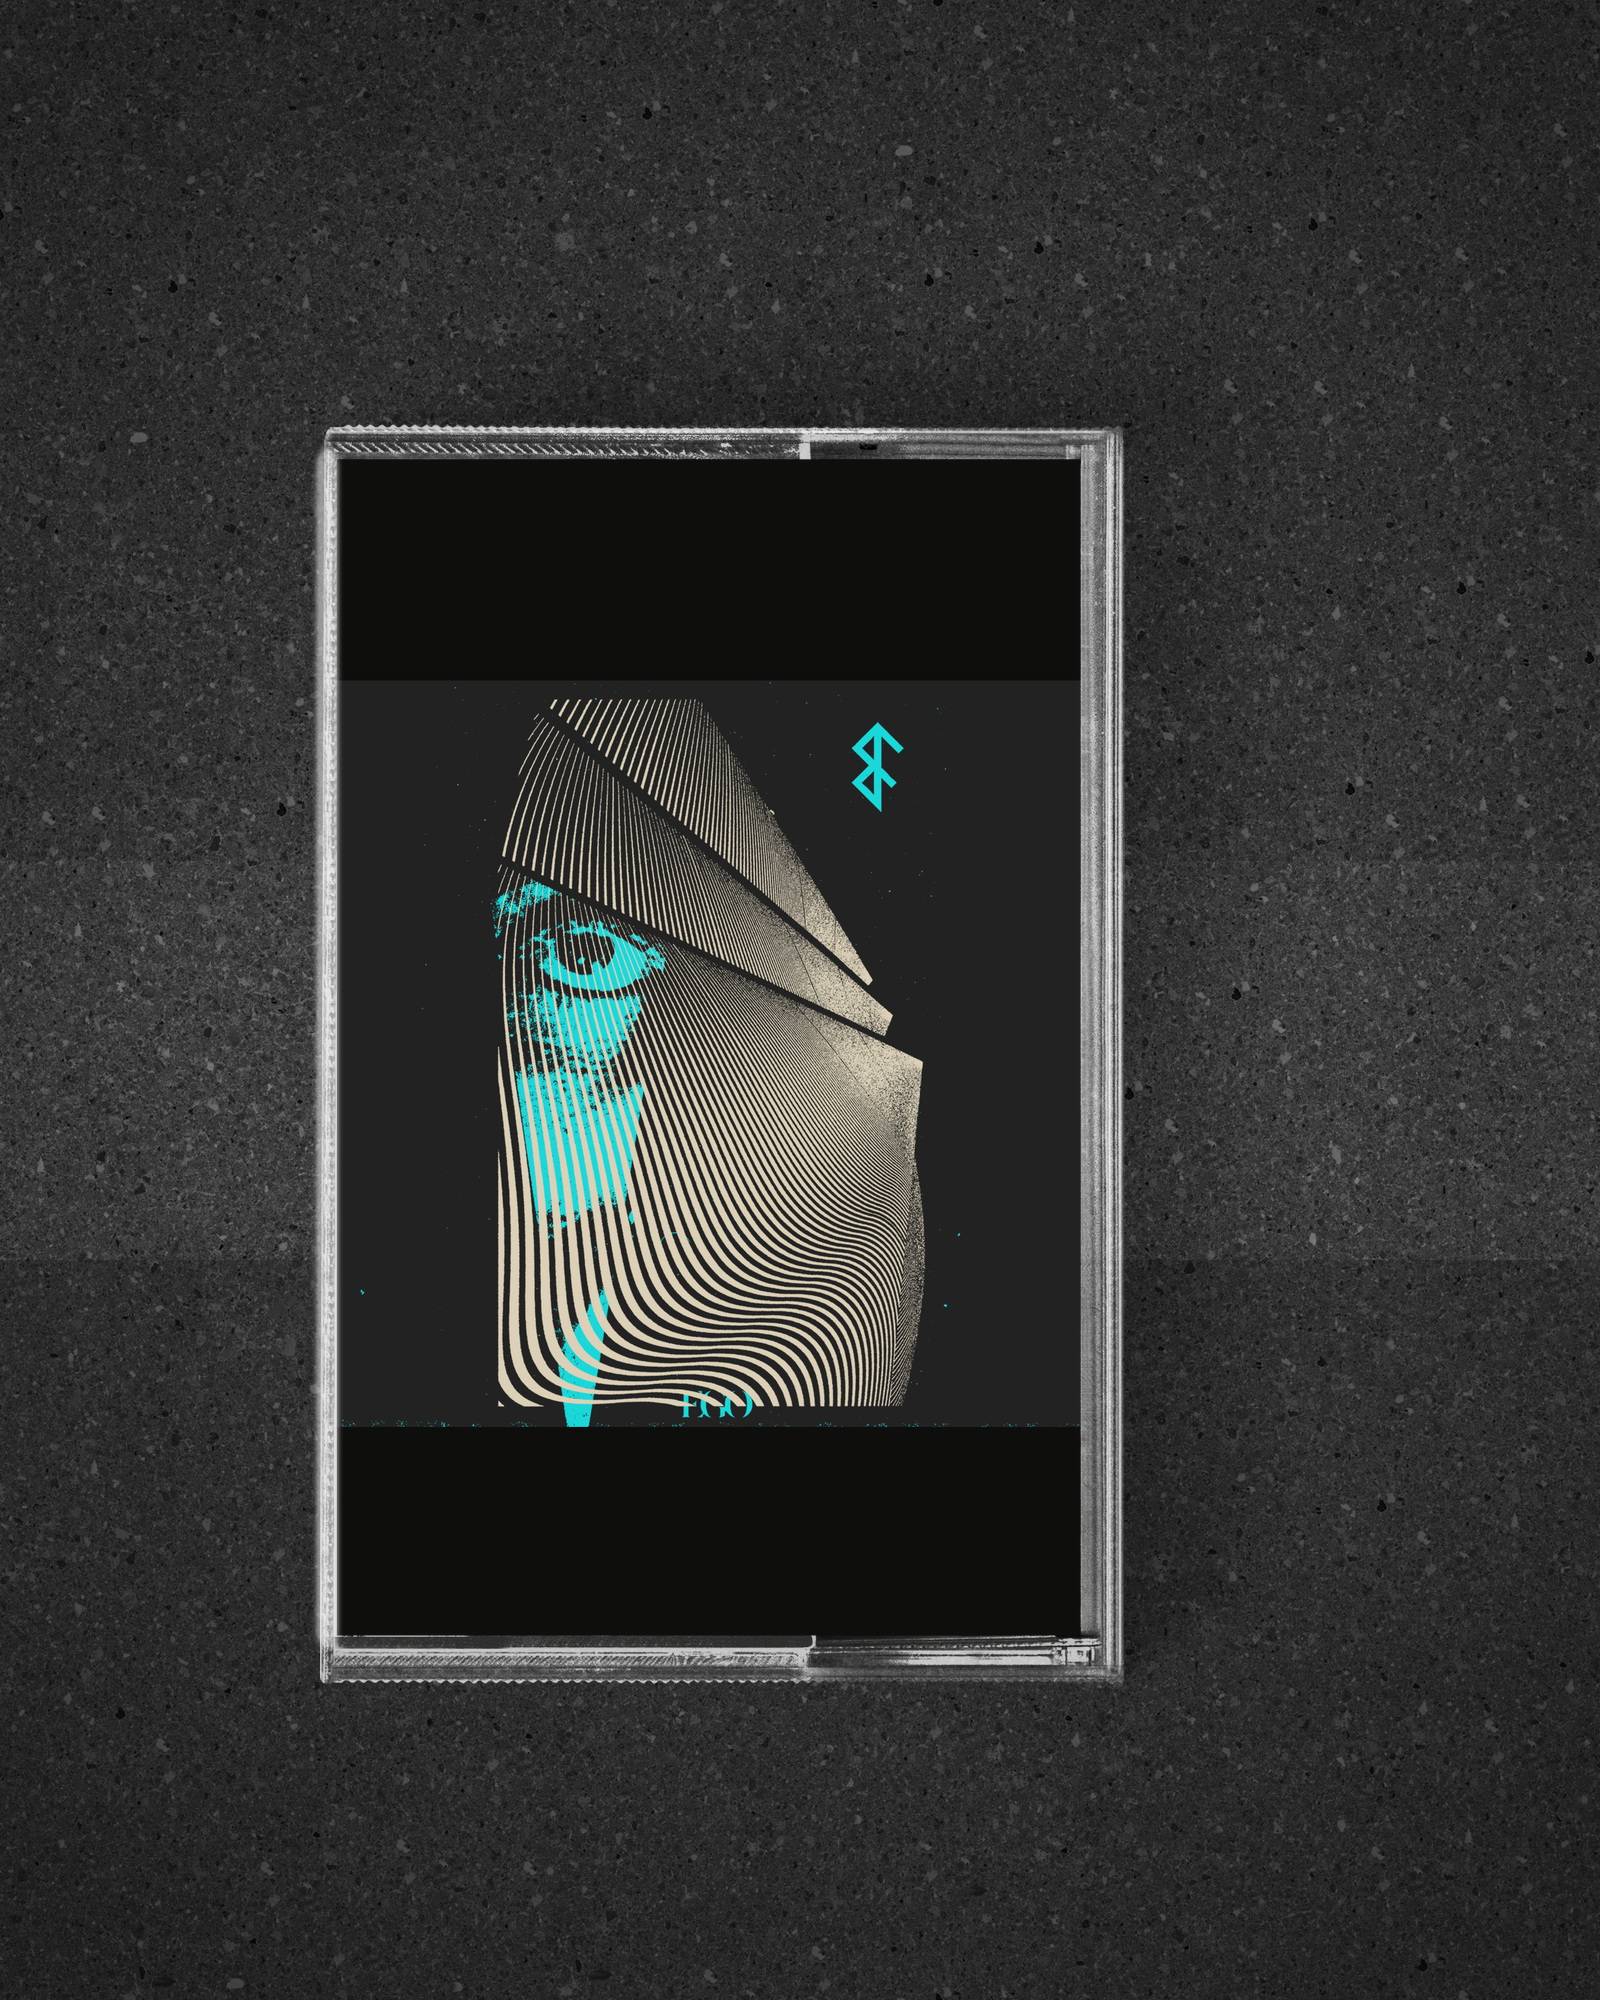
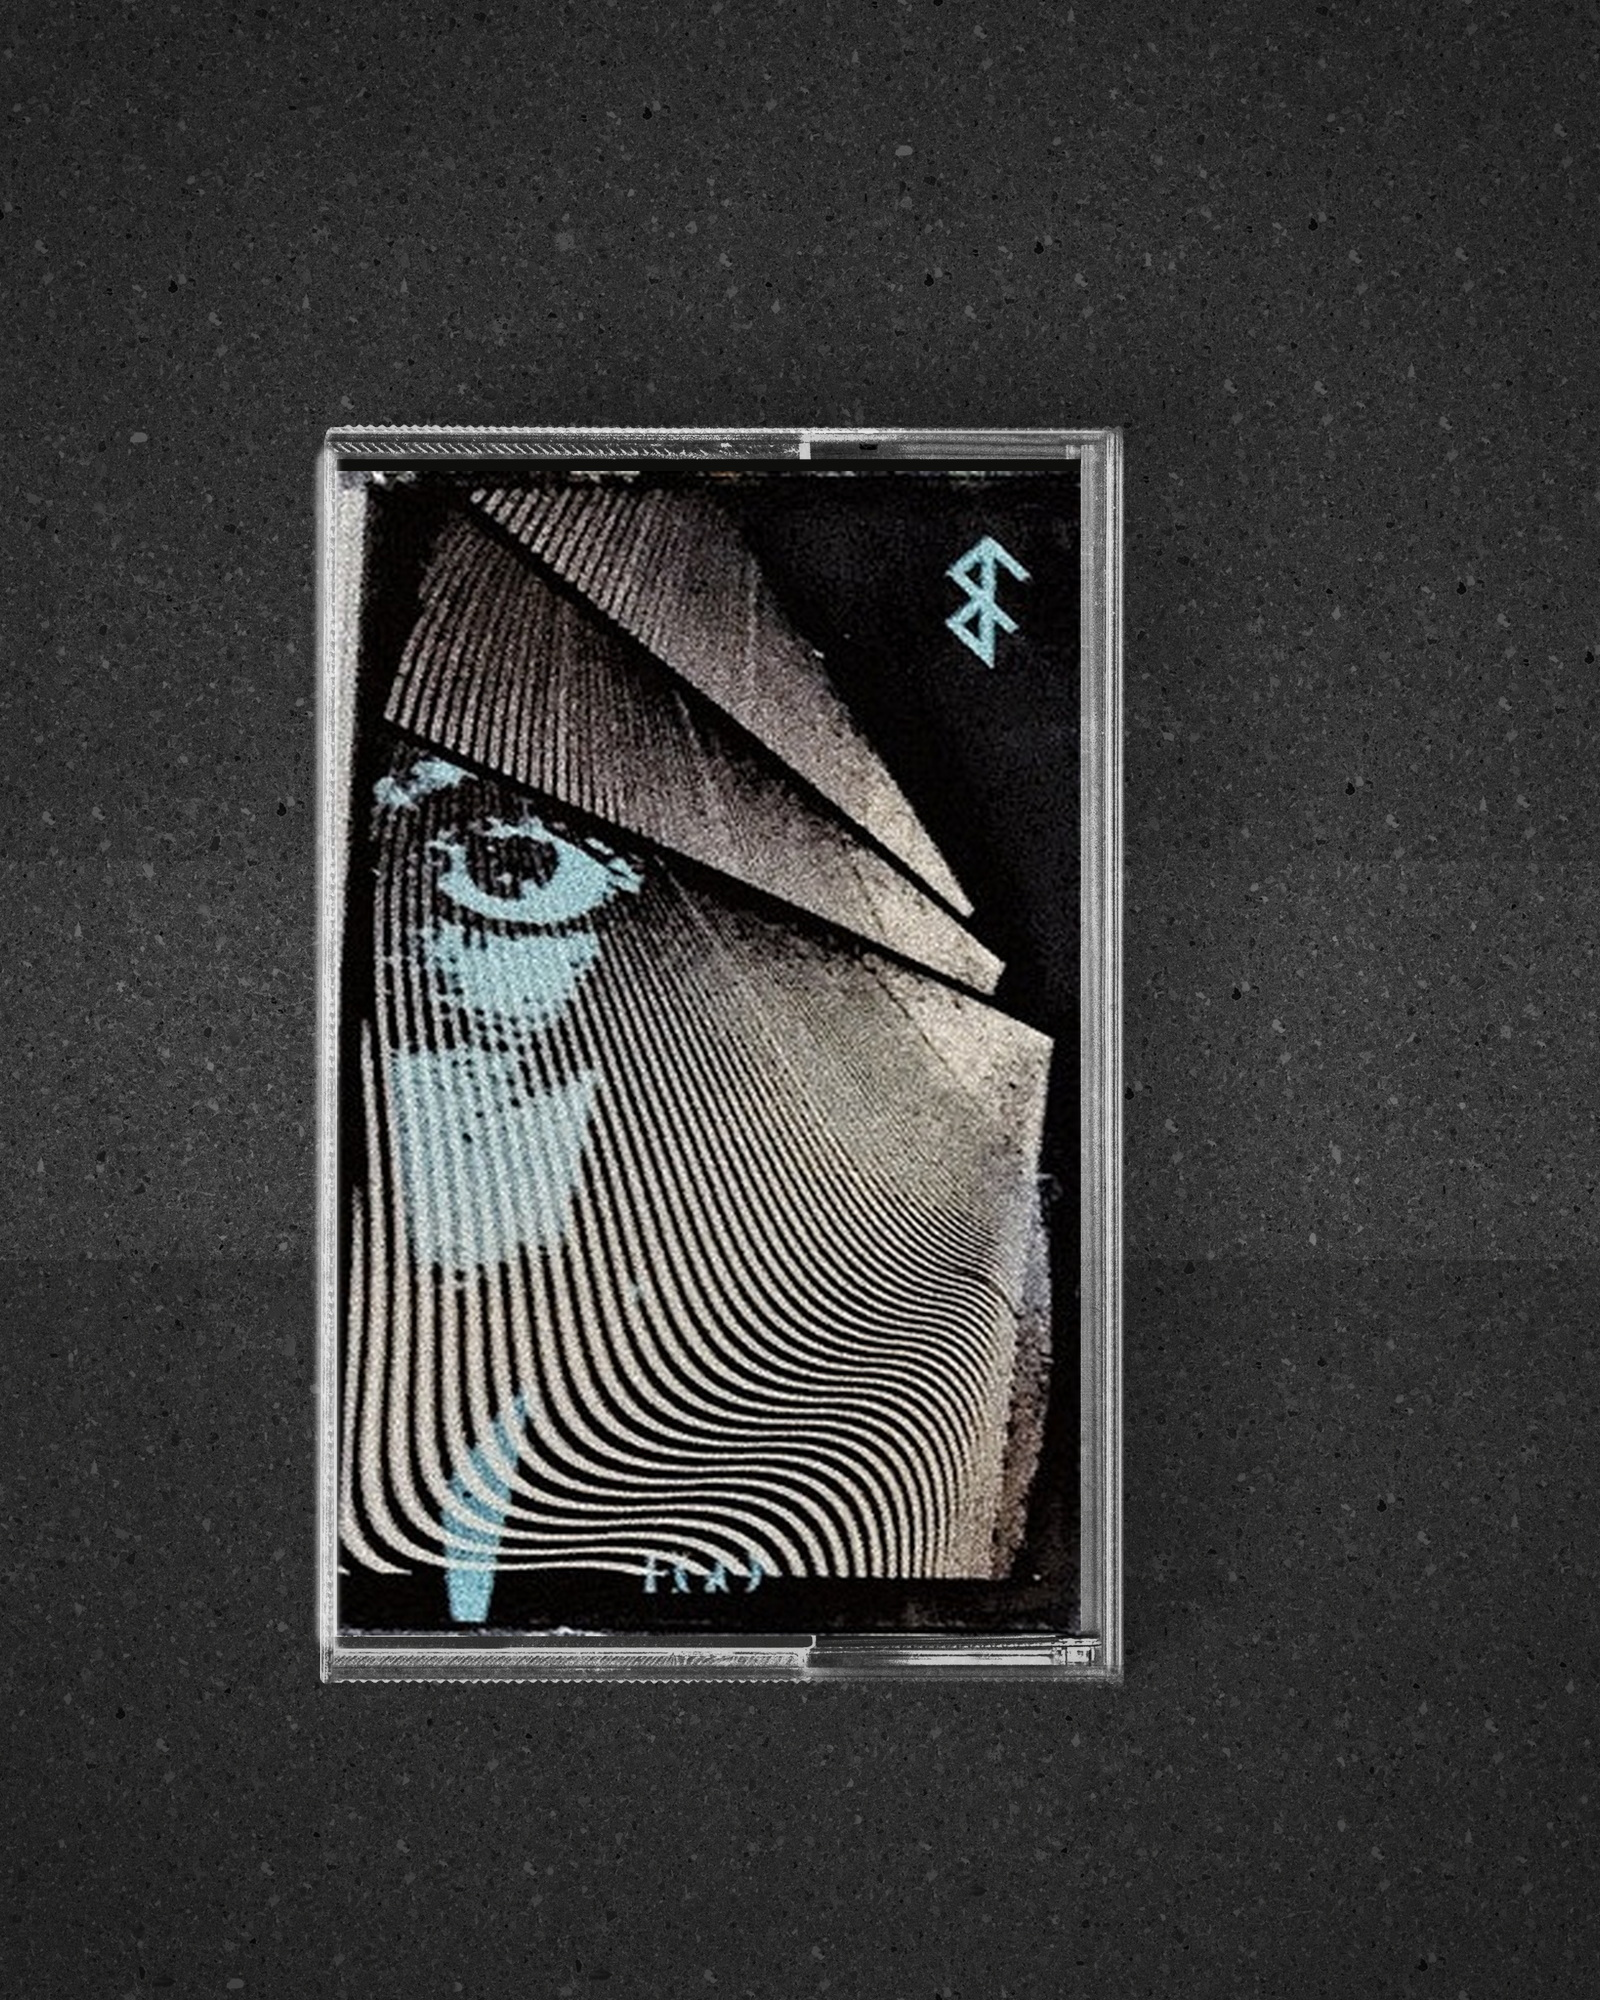
feat(store): use authentic cassette artwork where available
Why
Use verified product imagery for cassette listings without replacing the established BlackBox cassette presentation or uncertain fallbacks.

What
Add provenance and local source assets, generate two authentic composites, and make manifest output deterministic and path-safe.

Changed region(s): [[0.1875, 0.217, 0.6875, 0.837]]

diff --git a/tools/artwork-fetcher/tests/test_cassette_mockup.py b/tools/artwork-fetcher/tests/test_cassette_mockup.py
@@ -67,22 +67,23 @@ class CassetteMockupTests(unittest.TestCase):
         with tempfile.TemporaryDirectory() as tmp:
             root = Path(tmp)
             cover = root / "001 - Artist - Album [Tape] - cover.jpg"
-            reference = root / "reference.jpg"
+            reference = root / "assets" / "reference.jpg"
             manifest = root / "manifest.csv"
             out_dir = root / "mockups"
             background = root / "background.jpg"
             overrides = root / "overrides.json"
             Image.new("RGB", (500, 500), (10, 120, 220)).save(cover)
+            reference.parent.mkdir()
             Image.new("RGB", (600, 400), (220, 20, 20)).save(reference)
             Image.new("RGB", (400, 400), (80, 80, 76)).save(background)
             overrides.write_text(
-                json.dumps({"Artist\tAlbum": {"jcard_path": str(reference), "jcard_crop_xywh": [10, 20, 200, 300]}}),
+                json.dumps({"Artist\tAlbum": {"jcard_path": "assets/reference.jpg", "jcard_crop_xywh": [10, 20, 200, 300]}}),
                 encoding="utf-8",
             )
             manifest.write_text(
-                "row_number,normalized_artist,normalized_title,normalized_format,status,local_path,source_page_url\n"
-                f"001,Artist,Album,Tape,downloaded,{cover},https://artist.bandcamp.com/album/album\n"
-                f"002,Artist,CD,CD,downloaded,{cover},\n",
+                "row_number,normalized_artist,normalized_title,normalized_format,status,local_path,source_page_url,output_name\n"
+                f"001,Artist,Album,Tape,downloaded,{cover},https://artist.bandcamp.com/album/album,artist-album-cassette.jpg\n"
+                f"002,Artist,CD,CD,downloaded,{cover},,\n",
                 encoding="utf-8",
             )
 
@@ -94,8 +95,23 @@ class CassetteMockupTests(unittest.TestCase):
                 layer_paths=make_layers(root),
             )
 
-            self.assertEqual([path.name for path in outputs], ["001 - Artist - Album [Tape] - cover-cassette-front-mockup.jpg"])
+            self.assertEqual([path.name for path in outputs], ["artist-album-cassette.jpg"])
             self.assertTrue((root / "cassette-reference" / "artist-album" / "artist-album-jcard-crop.jpg").exists())
+
+    def test_render_manifest_rejects_output_path_traversal(self):
+        with tempfile.TemporaryDirectory() as tmp:
+            root = Path(tmp)
+            cover = root / "cover.jpg"
+            manifest = root / "manifest.csv"
+            Image.new("RGB", (500, 500), (10, 120, 220)).save(cover)
+            manifest.write_text(
+                "normalized_artist,normalized_title,normalized_format,status,local_path,output_name\n"
+                f"Artist,Album,Tape,downloaded,{cover},../outside.jpg\n",
+                encoding="utf-8",
+            )
+
+            with self.assertRaisesRegex(ValueError, "Invalid manifest output_name"):
+                render_manifest(manifest, root / "mockups", overrides_path=None)
 
     def test_bandcamp_reference_download_uses_shared_http_cache(self):
         class FakeHttp:

diff --git a/tools/artwork-fetcher/src/artwork_fetcher/cassette_mockup.py b/tools/artwork-fetcher/src/artwork_fetcher/cassette_mockup.py
@@ -107,7 +107,7 @@ def render_manifest(
         if discover_bandcamp_references and is_bandcamp_url(clean_text(row.get("source_page_url", ""))):
             download_bandcamp_cassette_references(clean_text(row.get("source_page_url", "")), reference_dir, cache)
         j_card = prepare_j_card_source(cover, row, reference_dir, overrides)
-        out = out_dir / f"{cover.stem}-{SUFFIX}"
+        out = manifest_output_path(row, cover, out_dir)
         render_cassette_front_mockup(j_card, out, cache, psd_path, background_path, layer_paths)
         outputs.append(out)
     return outputs
@@ -161,7 +161,21 @@ def load_overrides(path: Path | None) -> dict[str, dict]:
     if not path or not path.exists():
         return {}
     data = json.loads(path.read_text(encoding="utf-8"))
-    return {key: value for key, value in data.items() if isinstance(value, dict)} if isinstance(data, dict) else {}
+    overrides = {key: value.copy() for key, value in data.items() if isinstance(value, dict)} if isinstance(data, dict) else {}
+    for override in overrides.values():
+        jcard_path = clean_text(str(override.get("jcard_path", "")))
+        if jcard_path and not Path(jcard_path).is_absolute():
+            override["jcard_path"] = str(path.parent / jcard_path)
+    return overrides
+
+
+def manifest_output_path(row: dict[str, str], cover: Path, out_dir: Path) -> Path:
+    output_name = clean_text(row.get("output_name", ""))
+    if not output_name:
+        return out_dir / f"{cover.stem}-{SUFFIX}"
+    if Path(output_name).name != output_name or Path(output_name).suffix.lower() not in SAFE_SUFFIXES:
+        raise ValueError(f"Invalid manifest output_name: {output_name}")
+    return out_dir / output_name
 
 
 def resolve_manifest_path(path_text: str, manifest_path: Path) -> Path:

diff --git a/docs/store-cassette-artwork-provenance.md b/docs/store-cassette-artwork-provenance.md
@@ -1,0 +1,14 @@
+# Store cassette artwork provenance
+
+Research date: July 22, 2026.
+
+The store content source contains four cassette Store Items. Each has one `standard` cassette variant. Runtime images remain local Astro assets; source URLs below are research provenance only.
+
+| Store Item                                                                | Variant                                                  | Result              | Evidence and selection                                                                                                                                                                                                                                                                                                                                                                                                                                                                                                                                                                                              |
+| ------------------------------------------------------------------------- | -------------------------------------------------------- | ------------------- | ------------------------------------------------------------------------------------------------------------------------------------------------------------------------------------------------------------------------------------------------------------------------------------------------------------------------------------------------------------------------------------------------------------------------------------------------------------------------------------------------------------------------------------------------------------------------------------------------------------------- |
[2 lines of base64/hex data omitted]
+| `magmarus-cassette-sessions-cassette` — Magmarus, _Cassette sessions_     | `variant_magmarus-cassette-sessions-cassette_standard`   | Mock fallback       | Official Bandcamp page `https://magmarus.bandcamp.com/album/cassette-sessions` confirms the exact release but exposes digital cover art only, not a cassette product display. Contemporary event pages support that cassette copies existed, but no reliable exact product image was found. Public official Facebook photos showed posters/live imagery; older-photo loading timed out. The existing cover-art cassette mock remains unchanged rather than implying an unverified physical design.                                                                                                                  |
+| `the-vagina-lips-random-tapes-cassette` — The Vagina lips, _Random Tapes_ | `variant_the-vagina-lips-random-tapes-cassette_standard` | Mock fallback       | Inner Ear’s official artist page (`https://inner-ear.gr/en/artists/vagina-lips/`) and Discogs (`https://www.discogs.com/release/8497993-The-Vagina-Lips-The-Vagina-Lips`) describe a 2015 self-titled cassette released by the label Random Tapes. Discogs has no product image, and the authoritative title conflicts with the current Store Item title. No exact image can be matched without guessing, so the existing cassette fallback remains unchanged.                                                                                                                                                      |
+
+The reusable manifest is `tools/artwork-fetcher/cassette_store_artwork_manifest.csv`. It contains matched products only; unmatched items are deliberately absent so reruns cannot overwrite their fallbacks.

diff --git a/tools/artwork-fetcher/README.md b/tools/artwork-fetcher/README.md
@@ -124,6 +124,13 @@ python -m artwork_fetcher.cassette_mockup --manifest ./artwork_run_20260628/mani
 The cassette renderer uses the Pixpine cassette tape PSD, keeps only the clear case / front J-card layers, hides the cassette shell and Pixpine promo banner, and composites the result over ambientCG `Asphalt023S`. It is intentionally neutral: cassette shell and label printing are not shown.
 The J-card insertion preserves the full source artwork. If the source is square or landscape rather than cassette-front proportions, the renderer uses a neutral matte instead of cropping the artwork into a fake cassette layout.
 Manifest mode renders downloaded `Tape` rows only. `--discover-bandcamp-references` reads Bandcamp JSON-LD cassette product images into `<run>/cassette-reference/`; per-release J-card crops live in `cassette_mockup_overrides.json`.
+Relative `jcard_path` values resolve from the overrides file. An optional manifest `output_name` writes an exact safe image filename, allowing the committed store cassette manifest to regenerate selected distro images directly:
+
+```powershell
+$env:PYTHONPATH = "src"
+python -m artwork_fetcher.cassette_mockup --manifest ./cassette_store_artwork_manifest.csv --out-dir ../../apps/web/src/content/distro --cache-dir ../../.codex-artifacts/cassette-mockup-cache --mockup-psd "D:\Downloads\free-cassette-tape-mockup\Free Cassette Tap Mockup.psd"
+```
+
 Source mockup: `https://pixpine.com/product/free-cassette-tape-mockup/`.
 Disclosure used for generated tape distro entries: `Cassette case artwork mockup. Actual cassette shell and labels may vary.`
 